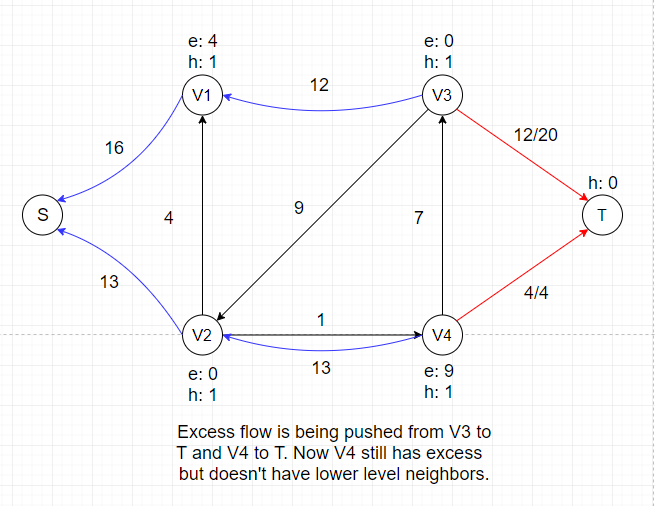
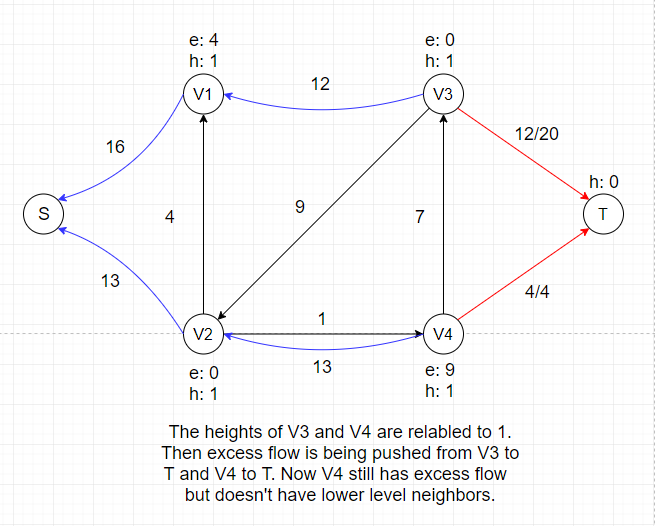
Add files via upload

diff --git a/index.html b/index.html
@@ -93,31 +93,44 @@
          <strong>one vertex at a time</strong>. An obvious outcome is that push-relabel method costs O(V²E) but Ford-Fulkerson method costs O(VE²).</p>
       <p>Before going any further, we need to introduce two core concepts of push-relabel algorithm: <strong>Excess</strong> and <strong>Height</strong>. Imagine every intermediate vertex
          (all vertices except for Source and Target) as a storage point that can temporarily store certain amount of flow when the algorithm progresses. What we're trying to do is essentially
-         to pure as much flow as we can from upper level (vertices with <strong>larger heights</strong>) to lower level (vertices with <strong>smaller heights</strong>), just like cascades.</p>
-      <p>To clarify some notations for push-relabel algorithms: <strong>v.h</strong> represents the height of a vertex, <strong>v.e</strong> represents the excess flow stored in
-         a vertex. The height of all vertices (except for Source) are initially 0 and the excess flow of all vertices are initially 0. The height of source is equal to the number of vertices |V|.</p>
+         to pure as much flow as we can from upper level (vertices with <strong>larger heights</strong>) to lower level (vertices with <strong>smaller heights</strong>), just like cascades.
+         We define a <strong>height function h: h(Source) = |V|, h(t) = 0, h(u) ≤ h(v) + 1 for every residual edge (u, v) ∈ E.</strong></p>
+      <p>To clarify some notations for push-relabel algorithm: <strong>v.h</strong> represents the height of a vertex, <strong>v.e</strong> represents the excess flow stored in
+         a vertex. The height of all vertices (except for Source) are initially 0 and the excess flow of all vertices are initially 0. The height of Source is equal to the number of vertices |V|.
+         The height of Target is always zero.</p>
       <p>As the name implies, push-relabel method consists of two main operations:</p>
       <ul>
         <li><strong>Push Operation</strong></li>
         <p>This operation only applies to vertex u if u is <strong>overflowing</strong>, meaning that u.e > 0.<br> By pushing, we send as much flow as we can from
-           u to one of its neighbors v where u.h = v.h + 1 and Δf(u, v) = min(u.e, C'(u, v)).</p>
-        <p><strong>Note: </strong>C'(u, v) is the residual capacity of edge (u, v).</p>
+           u to one of its neighbors v where u.h = v.h + 1 and Δf(u, v) = min(u.e, C'(u, v)).<br>
+           A <strong>saturating push</strong> means f(u, v) = C'(u, v) after the push.<br>
+           A <strong>nonsaturating push</strong> means f(u, v) < C'(u, v) after the push.</p>
+        <p><strong>Note: </strong>C'(u, v) is the residual capacity of edge (u, v). The constraint u.h = v.h + 1 <strong>doesn't</strong> apply if u is the Source.</p>
         <img src="Push1.PNG" alt="">
-        <p>In the example above, we are pushing the maximum amount of flow we can (flow value is equal to capacity) to two neighbors of Source. After this push, V1 and V2 each gets certain amount
-           of flow temporarily stored, denoted as <strong>e: 16</strong> and <strong>e: 13</strong>. We can see that all neighbors of V1 and V2 have a height of 0, which is the same as V1 and V2.<br>
+        <p>In the example above, we are pushing the maximum amount of flow we can (flow value is equal to capacity) to two neighbors of Source, which is the first step of push-relabel algorithm.
+           After this push, V1 and V2 each gets certain amount of temporary flow, denoted as <strong>e: 16</strong> and <strong>e: 13</strong>. We can see that all neighbors of V1 and V2
+           have a height of 0, which is the same as V1 and V2.<br>
            So we <strong>cannot</strong> push any flow out of V1 and V2 if we don't adjust their heights, which is called the <strong>Relabel Operation</strong>.</p>
         <li><strong>Relabel Operation</strong></li>
-        <p>This operation only applies to vertex u if u is <strong>overflowing</strong> and all its neighbors V satifies <strong>u.h ≤ v.h for all v ∈ V</strong>.<br> By relabeling, we increase the
-           height of vertex u to <strong>1 + min(v.h for all v ∈ V)</strong>. Since we can only push excess flow from a vertex to its downhill neighbors, adjusting heights of vertices is necessary
+        <p>This operation only applies to vertex u if u is <strong>overflowing</strong> and all its neighbors N(u) satifies <strong>u.h ≤ v.h for all v ∈ N(u)</strong>.<br> By relabeling, we increase the
+           height of vertex u to <strong>1 + min(v.h for all v ∈ N(u))</strong>. Since we can only push excess flow from a vertex to its downhill neighbors, adjusting heights of vertices is necessary
            to keep the algorithm progressing.</p>
         <img src="Relabel1.PNG" alt=""><img src="Relabel2.PNG" alt=""><img src="Relabel3.PNG" alt=""><img src="Relabel4.PNG" alt="">
         <img src="Relabel5.PNG" alt=""><img src="Relabel6.PNG" alt=""><img src="Relabel7.PNG" alt=""><img src="Relabel8.PNG" alt="">
         <img src="Relabel9.PNG" alt="">
       </ul>
-      <p><font size="4" color="red">In the example above, all intermediate vertices have zero excess flow and the push-relabel algorithm terminates.</font></p>
+      <p><font size="4" color="red">In the example above, there is no applicable push or relabel operations and thus the algorithm terminates.</font></p>
       <h4>Proof of Correctness</h4>
-      <p>It is really simple to prove that the flow f we obtain from push-relabel method is indeed the maximum flow: we just need to prove there is no path from S to T in the residual network
-         after the algorithm terminates.</p>
+      <p>Before proving the whole algorithm is correct, we need to prove that <strong>the height function h we define still maintains the height attribute</strong> after all the relabel operations.</p>
+      <p>The proof is by induction on the two kinds of basic operations performed. Initially, h is a height function as defined.</p>
+      <p>We claim that if h is a height function, then <strong>a relabel operation leaves h a height function</strong>. If we look at a residual edge (u, v) ∈ E that leaves u, then a relabel
+         operation ensures u.h ≤ v.h + 1 afterward. If we look at a residual edge (w, u) ∈ E that enters u, since a relabel operation increases the height of u by at least 1, w.h ≤ u.h + 1 before
+         the relabel operation implies that w.h < u.h + 1 afterward.</p>
+      <p>Now we claim that if h is a height function, then <strong>a push operation leaves h a height function</strong>.</p>
+      <p>A push operation may add an edge (v, u) to the residual graph. In this case, we have v.h = u.h - 1 < u.h + 1 because we are pushing flow from u to v. A push operation may also remove edge
+         (u, v) from the residual graph. In this case, removing an edge also removes the corresponding constraints, and h remains a height function.</p>
+      <p>After proving the stability of height function, it is really simple to prove that the flow f we obtain from push-relabel method is indeed the maximum flow: we just need to prove there is
+         no path from S to T in the residual network after the algorithm terminates.</p>
       <p><font size="3" color="red">Let's first suppose that there exists a simple path P from S to T in the residual network for contradiction purposes, where P = (V0, V1, . . . , Vk).</font></p>
       <p>For i = 0, 1, 2, . . . , k - 1, edge(Vi, Vi+1) ∈ E. By the definition of height function h, h(Vi) ≤ h(Vi+1) + 1. Combining these two inequalities over path P yields h(s) ≤ h(t) + k.
          Since P is a simple path, k < |V|. So we can get h(s) ≤ 0 + k < |V|, which <strong>contradicts</strong> the requirement that h(s) = |V|.</p>
